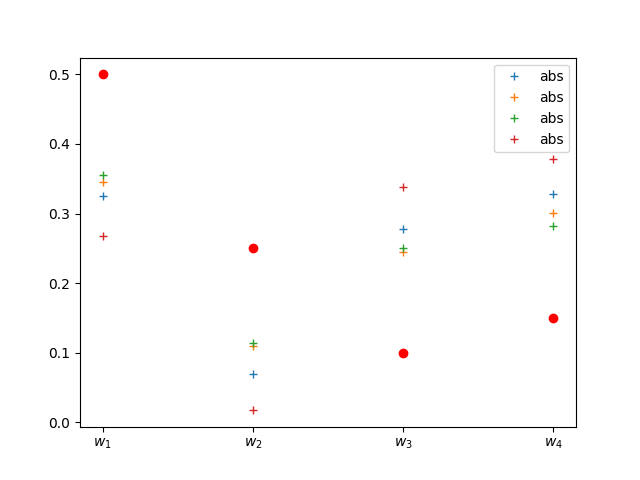
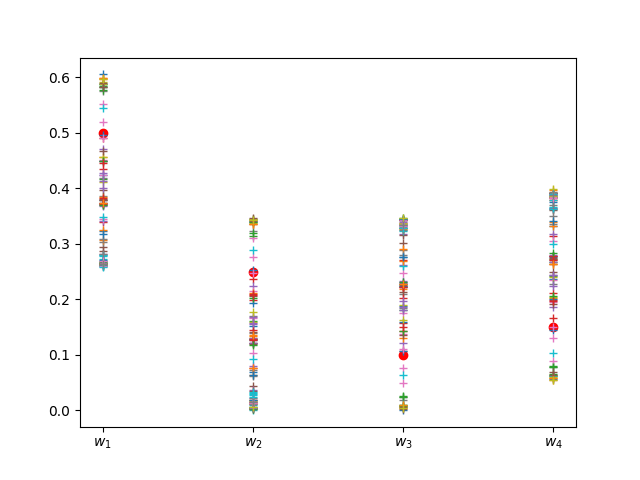
tentative de resolution Issue #3.

diff --git a/useful/network.py b/useful/network.py
@@ -28,6 +28,7 @@ class Network:
     @white_space
     def train(self,
               split_ratio: float = 0.5,
+              keras_split: bool = False,
               validate: bool = True,
               plot_history: bool = False,
               plot_acc: bool = False,
@@ -50,17 +51,27 @@ class Network:
         print("Learning set : {} values".format(len(self.data.question_training)))
         print("Training set : {} values".format(len(self.data.question_testing)))
 
-        if self.validation_set:
-            history = self.model.fit(self.data.question_training,
-                                     self.data.expected_training,
-                                     epochs=10,
-                                     validation_data=(
-                                         self.data.question_testing,
-                                         self.data.expected_testing))
+        if not self.validation_set:
+            if keras_split:
+                history = self.model.fit(self.data.question_data,
+                                         self.data.expected_data,
+                                         shuffle=False,
+                                         epochs=10,
+                                         validation_split=split_ratio)
+            else:
+                history = self.model.fit(self.data.question_training,
+                                         self.data.expected_training,
+                                         shuffle=False,
+                                         epochs=10,
+                                         validation_data=(
+                                             self.data.question_testing,
+                                             self.data.expected_testing))
         else:
-            history = self.model.fit(self.data.question_training,
-                                     self.data.expected_training,
-                                     epochs=10)
+                history = self.model.fit(self.data.question_data,
+                                         self.data.expected_data,
+                                         shuffle=False,
+                                         epochs=10)
+
         self.history = history.history
         self.print_weights()
 

diff --git a/useful/choquet.py b/useful/choquet.py
@@ -37,12 +37,13 @@ class Choquet:
         return Choquet.pre_call(x) @ self.W
 
 
-def choquet_generate(ch: Choquet, n: int = 100, debug: bool = False) -> dict:
+def choquet_generate(ch: Choquet, n: int = 100, debug: bool = False, sort: bool=False) -> dict:
     """
     Generate n vectors input and expected by the ch function
     :param ch: Choquet function
     :param n: number of vectors
     :param debug: See function work progress
+    :param sort: sort vectors
     :return: dict : {"expected": [...], "question": [...]}
     """
     que = []
@@ -53,18 +54,26 @@ def choquet_generate(ch: Choquet, n: int = 100, debug: bool = False) -> dict:
             print("Building : {}%...".format(str(int(i * 100 / n)).zfill(2)))
         random_vect = np.random.rand(int(math.sqrt(ch.n_dim)))
         que.append(random_vect.tolist())
-        exp.append(ch(random_vect))
+        if not sort:
+            exp.append(ch(random_vect))
+    if sort:
+        if debug:
+            print("Sorting data")
+        que.sort(key=lambda t: sum(t[0], t[1]))
+        if debug:
+            print("Mapping func on questions")
+        exp = list(map(ch, que))
     return {"question": que, "expected": exp}
 
 
 class ChoquetData(Data):
     func: Choquet
 
-    def __init__(self, func: Choquet, n: int = None, debug: bool = False):
+    def __init__(self, func: Choquet, n: int = None, debug: bool = False, sort: bool = False):
         if n is not None:
-            dico = choquet_generate(func, n, debug)
+            dico = choquet_generate(func, n, debug, sort)
         else:
-            dico = choquet_generate(func, debug=debug)
+            dico = choquet_generate(func, debug=debug, sort=sort)
         que = nmap(np.array, dico['question'])
         exp = nmap(np.array, dico['expected'])
         self.func: Choquet = func

diff --git a/Obj1/__init__.py b/Obj1/__init__.py
@@ -15,25 +15,24 @@ def loss(self: ChoquetNetwork, exp: float, ret: float) -> float:
     return abs(exp - ret) + abs(1 - sum(self.weights))
 
 
-def test_loss(loss_f: callable):
+def test_loss(loss_f: callable, sort: bool = False):
     v1 = real_W[:2]
     v2 = np.array([real_W[2]])
     v3 = np.array([real_W[3]])
     ch = Choquet(v1, v2, v3)
-    chd = ChoquetData(func=ch, n=100000)
-    net = ChoquetNetwork(chd, split_ratio=0.8, loss_func=loss_f)
+    chd = ChoquetData(func=ch, n=1000, sort=sort)
+    net = ChoquetNetwork(chd, split_ratio=0.5, loss_func=loss_f)
     return list(map(lambda w: w/sum(net.weights), net.weights))
 
 
 if __name__ == '__main__':
     from matplotlib import pyplot as plt
     plt.plot(real_W, 'or')
-    for i in range(4):
+    for i in range(100):
         print(i, "="*50)
         ret = test_loss(loss)
-        plt.plot(ret, '+', label="abs")
+        plt.plot(ret, '+', label=i)
     plt.xticks(range(4), labels=["$w_{}$".format(j) for j in range(1, 5)])
-    plt.legend()
+    # plt.legend()
     plt.savefig("data/tmp.png")
     plt.show()
-
